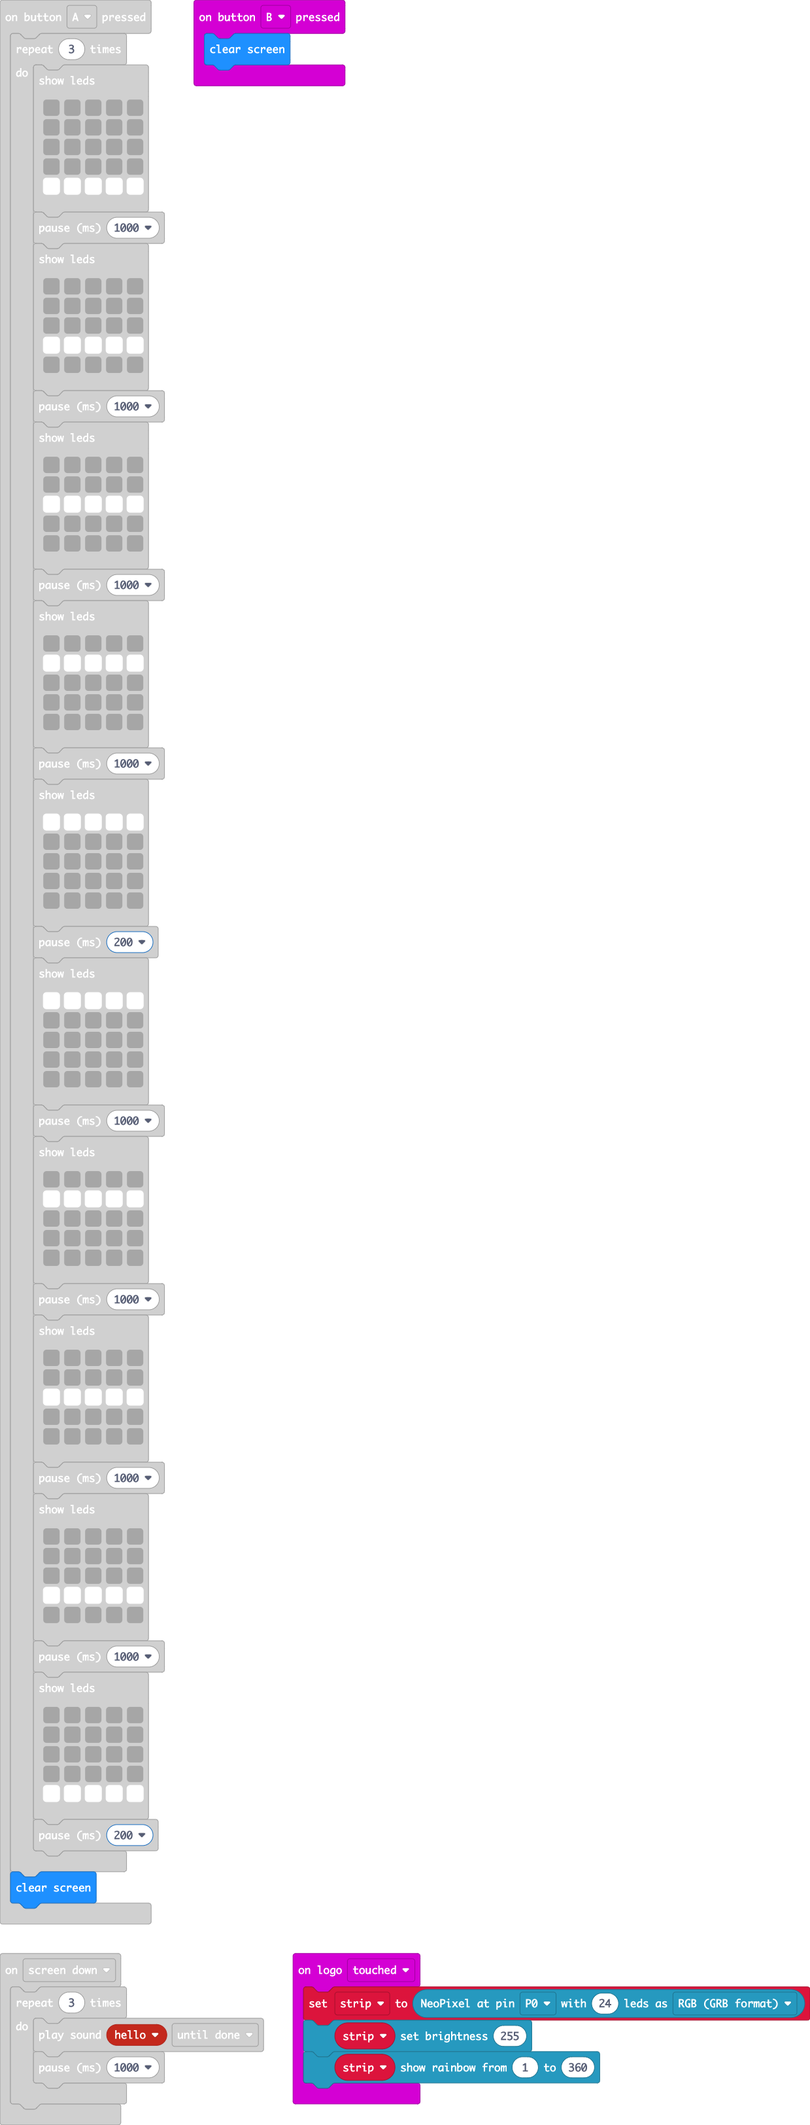
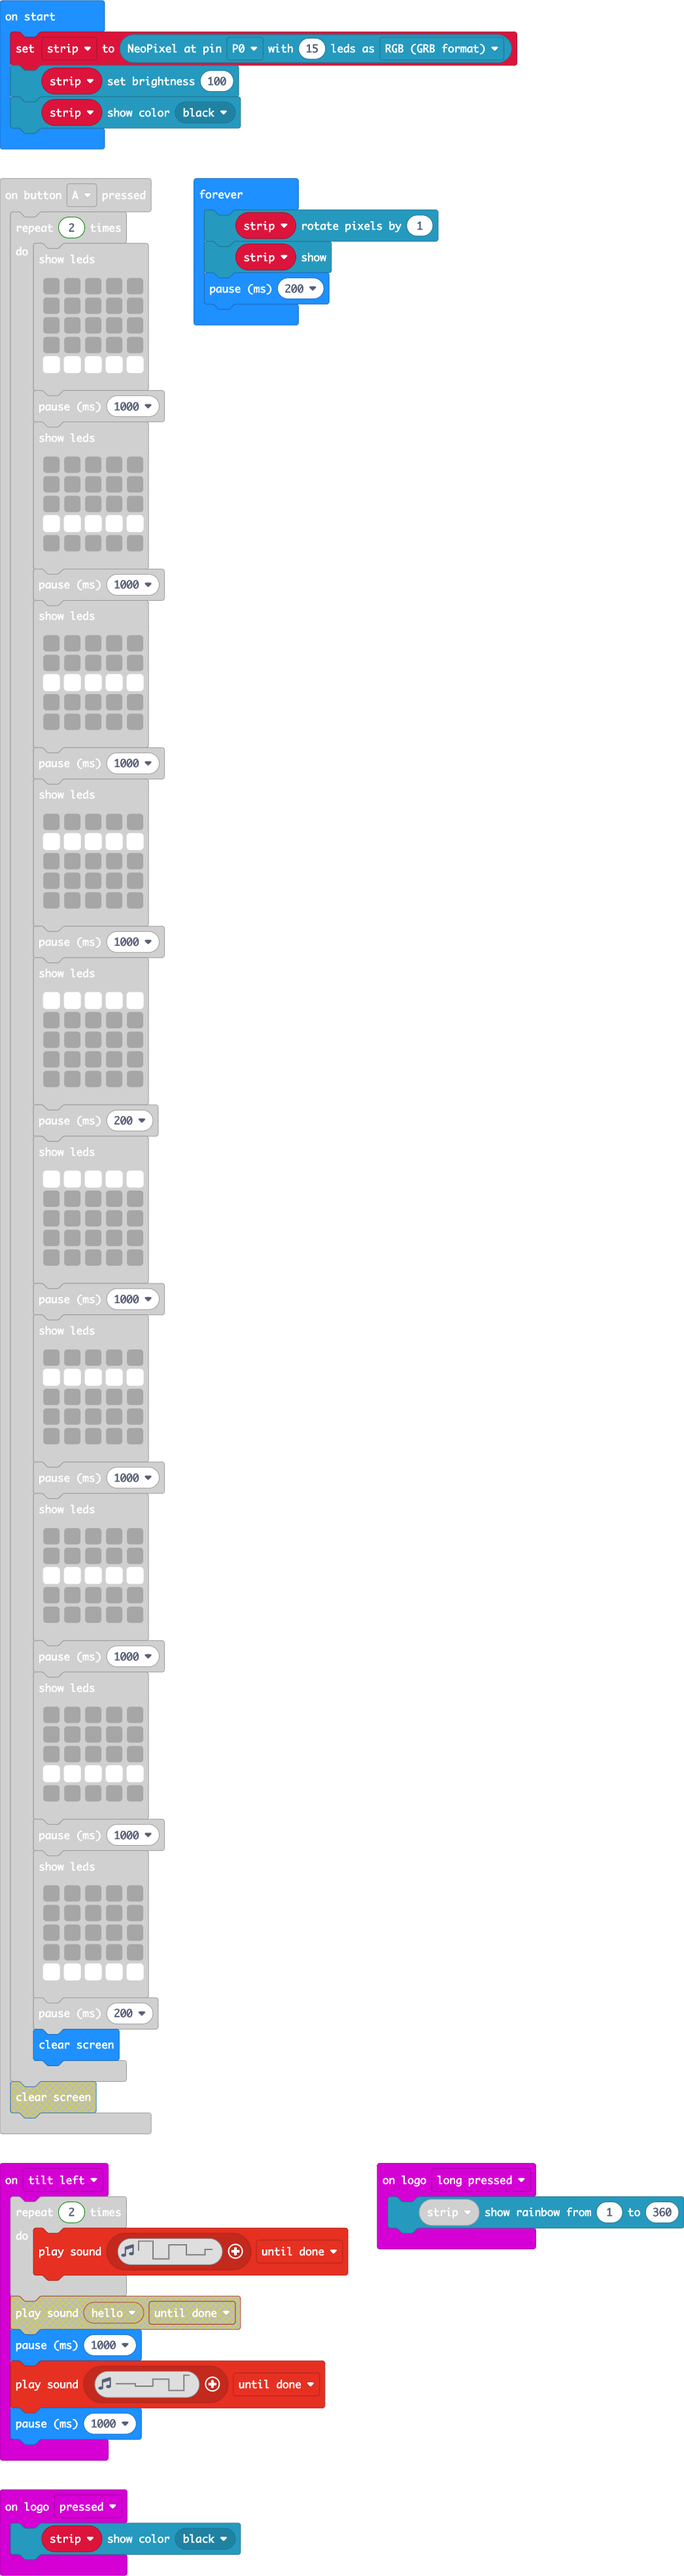
Update main.blocks, main.ts

Changed region(s): [[0.0, 0.0, 1.0, 1.0], [0.5507, 0.8396, 1.0, 0.8707]]

diff --git a/main.ts b/main.ts
@@ -1,93 +1,96 @@
-let Hand = 0
-let strip: neopixel.Strip = null
-input.onButtonPressed(Button.A, function () {
-    for (let index = 0; index < 3; index++) {
-        basic.showLeds(`
-            . . . . .
-            . . . . .
-            . . . . .
-            . . . . .
-            # # # # #
-            `)
-        basic.pause(1000)
-        basic.showLeds(`
-            . . . . .
-            . . . . .
-            . . . . .
-            # # # # #
-            . . . . .
-            `)
-        basic.pause(1000)
-        basic.showLeds(`
-            . . . . .
-            . . . . .
-            # # # # #
-            . . . . .
-            . . . . .
-            `)
-        basic.pause(1000)
-        basic.showLeds(`
-            . . . . .
-            # # # # #
-            . . . . .
-            . . . . .
-            . . . . .
-            `)
-        basic.pause(1000)
-        basic.showLeds(`
-            # # # # #
-            . . . . .
-            . . . . .
-            . . . . .
-            . . . . .
-            `)
-        basic.pause(200)
-        basic.showLeds(`
-            # # # # #
-            . . . . .
-            . . . . .
-            . . . . .
-            . . . . .
-            `)
-        basic.pause(1000)
-        basic.showLeds(`
-            . . . . .
-            # # # # #
-            . . . . .
-            . . . . .
-            . . . . .
-            `)
-        basic.pause(1000)
-        basic.showLeds(`
-            . . . . .
-            . . . . .
-            # # # # #
-            . . . . .
-            . . . . .
-            `)
-        basic.pause(1000)
-        basic.showLeds(`
-            . . . . .
-            . . . . .
-            . . . . .
-            # # # # #
-            . . . . .
-            `)
-        basic.pause(1000)
-        basic.showLeds(`
-            . . . . .
-            . . . . .
-            . . . . .
-            . . . . .
-            # # # # #
-            `)
-        basic.pause(200)
-    }
-    basic.clearScreen()
+input.onLogoEvent(TouchButtonEvent.LongPressed, function () {
+    strip.showRainbow(1, 360)
 })
-input.onGesture(Gesture.ScreenDown, function () {
-    for (let index = 0; index < 3; index++) {
-        music.playSoundEffect(music.builtinSoundEffect(soundExpression.hello), SoundExpressionPlayMode.UntilDone)
+input.onButtonPressed(Button.A, function () {
+    for (let index = 0; index < 2; index++) {
+        basic.showLeds(`
+            . . . . .
+            . . . . .
+            . . . . .
+            . . . . .
+            # # # # #
+            `)
+        basic.pause(1000)
+        basic.showLeds(`
+            . . . . .
+            . . . . .
+            . . . . .
+            # # # # #
+            . . . . .
+            `)
+        basic.pause(1000)
+        basic.showLeds(`
+            . . . . .
+            . . . . .
+            # # # # #
+            . . . . .
+            . . . . .
+            `)
+        basic.pause(1000)
+        basic.showLeds(`
+            . . . . .
+            # # # # #
+            . . . . .
+            . . . . .
+            . . . . .
+            `)
+        basic.pause(1000)
+        basic.showLeds(`
+            # # # # #
+            . . . . .
+            . . . . .
+            . . . . .
+            . . . . .
+            `)
+        basic.pause(200)
+        basic.showLeds(`
+            # # # # #
+            . . . . .
+            . . . . .
+            . . . . .
+            . . . . .
+            `)
+        basic.pause(1000)
+        basic.showLeds(`
+            . . . . .
+            # # # # #
+            . . . . .
+            . . . . .
+            . . . . .
+            `)
+        basic.pause(1000)
+        basic.showLeds(`
+            . . . . .
+            . . . . .
+            # # # # #
+            . . . . .
+            . . . . .
+            `)
+        basic.pause(1000)
+        basic.showLeds(`
+            . . . . .
+            . . . . .
+            . . . . .
+            # # # # #
+            . . . . .
+            `)
+        basic.pause(1000)
+        basic.showLeds(`
+            . . . . .
+            . . . . .
+            . . . . .
+            . . . . .
+            # # # # #
+            `)
+        basic.pause(200)
+        basic.clearScreen()
+    }
+})
+input.onGesture(Gesture.TiltLeft, function () {
+    for (let index = 0; index < 2; index++) {
+        music.playSoundEffect(music.createSoundEffect(WaveShape.Square, 1600, 1, 255, 0, 1000, SoundExpressionEffect.None, InterpolationCurve.Curve), SoundExpressionPlayMode.UntilDone)
+        basic.pause(1000)
+        music.playSoundEffect(music.createSoundEffect(WaveShape.Square, 1, 1615, 0, 255, 1000, SoundExpressionEffect.None, InterpolationCurve.Curve), SoundExpressionPlayMode.UntilDone)
         basic.pause(1000)
     }
 })
@@ -122,8 +125,16 @@ input.onGesture(Gesture.Shake, function () {
             `)
     }
 })
-input.onLogoEvent(TouchButtonEvent.Touched, function () {
-    strip = neopixel.create(DigitalPin.P0, 24, NeoPixelMode.RGB)
-    strip.setBrightness(255)
-    strip.showRainbow(1, 360)
+input.onLogoEvent(TouchButtonEvent.Pressed, function () {
+    strip.showColor(neopixel.colors(NeoPixelColors.Black))
+})
+let Hand = 0
+let strip: neopixel.Strip = null
+strip = neopixel.create(DigitalPin.P0, 15, NeoPixelMode.RGB)
+strip.setBrightness(100)
+strip.showColor(neopixel.colors(NeoPixelColors.Black))
+basic.forever(function () {
+    strip.rotate(1)
+    strip.show()
+    basic.pause(200)
 })
